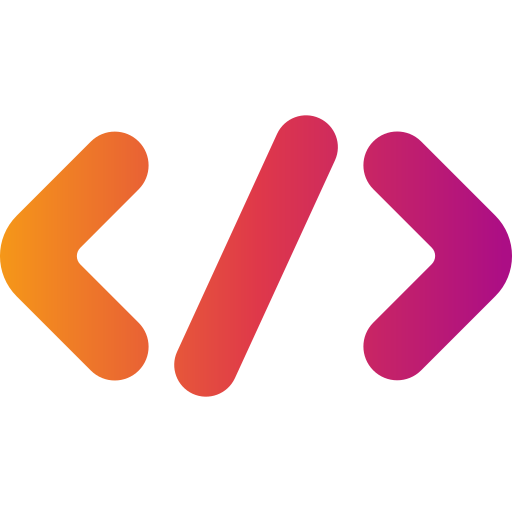
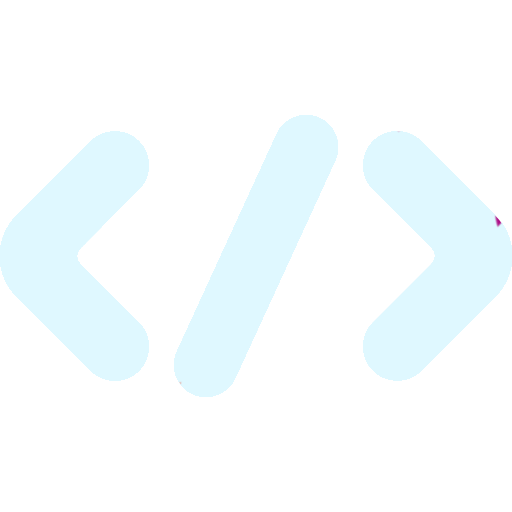
Recolor mainly

Changed region(s): [[0.0, 0.25, 0.3125, 0.75], [0.6875, 0.25, 1.0, 0.75], [0.3438, 0.2188, 0.6562, 0.7812]]

diff --git a/schedule.html b/schedule.html
@@ -16,11 +16,16 @@
 
         .table {
             border-collapse: separate;
+            border: none;
             background-color: #222;
             border-radius: 10px;
             width: 80%;
             margin: 20px auto;
             box-shadow: 0 0 10px rgba(0, 0, 0, 0.7);
+        }
+        
+        .table tr{
+            border-radius: 10px;
         }
 
         .table th,
@@ -31,7 +36,7 @@
         }
 
         .table th {
-            background-color: palevioletred;
+            background-color: #def7fe;
             font-size: 16px;
         }
 
@@ -45,7 +50,7 @@
         }
 
         .table td:hover {
-            color: palevioletred;
+            color: #def7fe;
         }
 
         .day-divider {
@@ -90,7 +95,7 @@
             color: black;
         }
         .header a.active{
-            background-color: palevioletred;
+            background-color: #def7fe;
             color: #222;
         }
         .header-right{
@@ -121,10 +126,10 @@
             text-align: center;
             padding: 20px;
             font-family: "Courier New", Courier, monospace;
-            border-top: 2px solid palevioletred;
+            border-top: 2px solid #def7fe;
         }
         footer a {
-            color: palevioletred;
+            color: #def7fe;
         }
 
     </style>
@@ -152,9 +157,9 @@
                 <th>Date</th>
                 <th>Period</th>
                 <th>Time</th>
-                <th>Group</th>
+                <th>Class</th>
                 <th>Room</th>
-                <th>Instructor</th>
+                <th>Teacher</th>
             </tr>
             </thead>
             <tbody>

diff --git a/practice.html b/practice.html
@@ -38,7 +38,7 @@
         }
 
         .table th {
-            background-color: palevioletred;
+            background-color: #def7fe;
             font-size: 16px;
         }
 
@@ -51,7 +51,7 @@
             text-decoration: none;
         }
         .table a:hover{
-            color: palevioletred;
+            color: #def7fe;
         }
         .container{
             flex: 1;
@@ -90,7 +90,7 @@
             color: black;
         }
         .header a.active{
-            background-color: palevioletred;
+            background-color: #def7fe;
             color: #222;
         }
         .header-right{
@@ -121,10 +121,10 @@
             text-align: center;
             padding: 20px;
             font-family: "Courier New", Courier, monospace;
-            border-top: 2px solid palevioletred;
+            border-top: 2px solid #def7fe;
         }
         footer a {
-            color: palevioletred;
+            color: #def7fe;
         }
 
     </style>

diff --git a/about.html b/about.html
@@ -55,7 +55,7 @@
             color: black;
         }
         .header a.active{
-            background-color: palevioletred;
+            background-color: #def7fe;
             color: #222;
         }
         .header-right{
@@ -85,10 +85,10 @@
             text-align: center;
             padding: 20px;
             font-family: "Courier New", Courier, monospace;
-            border-top: 2px solid palevioletred;
+            border-top: 2px solid #def7fe;
         }
         footer a {
-            color: palevioletred;
+            color: #def7fe;
         }
 
     </style>

diff --git a/index.html b/index.html
@@ -54,7 +54,7 @@
             color: black;
         }
         .header a.active{
-            background-color: palevioletred;
+            background-color: #def7fe;
             color: #222;
         }
         .header-right{
@@ -84,10 +84,10 @@
             text-align: center;
             padding: 20px;
             font-family: "Courier New", Courier, monospace;
-            border-top: 2px solid palevioletred;
+            border-top: 2px solid #def7fe;
         }
         footer a {
-            color: palevioletred;
+            color: #def7fe;
         }
 
     </style>
